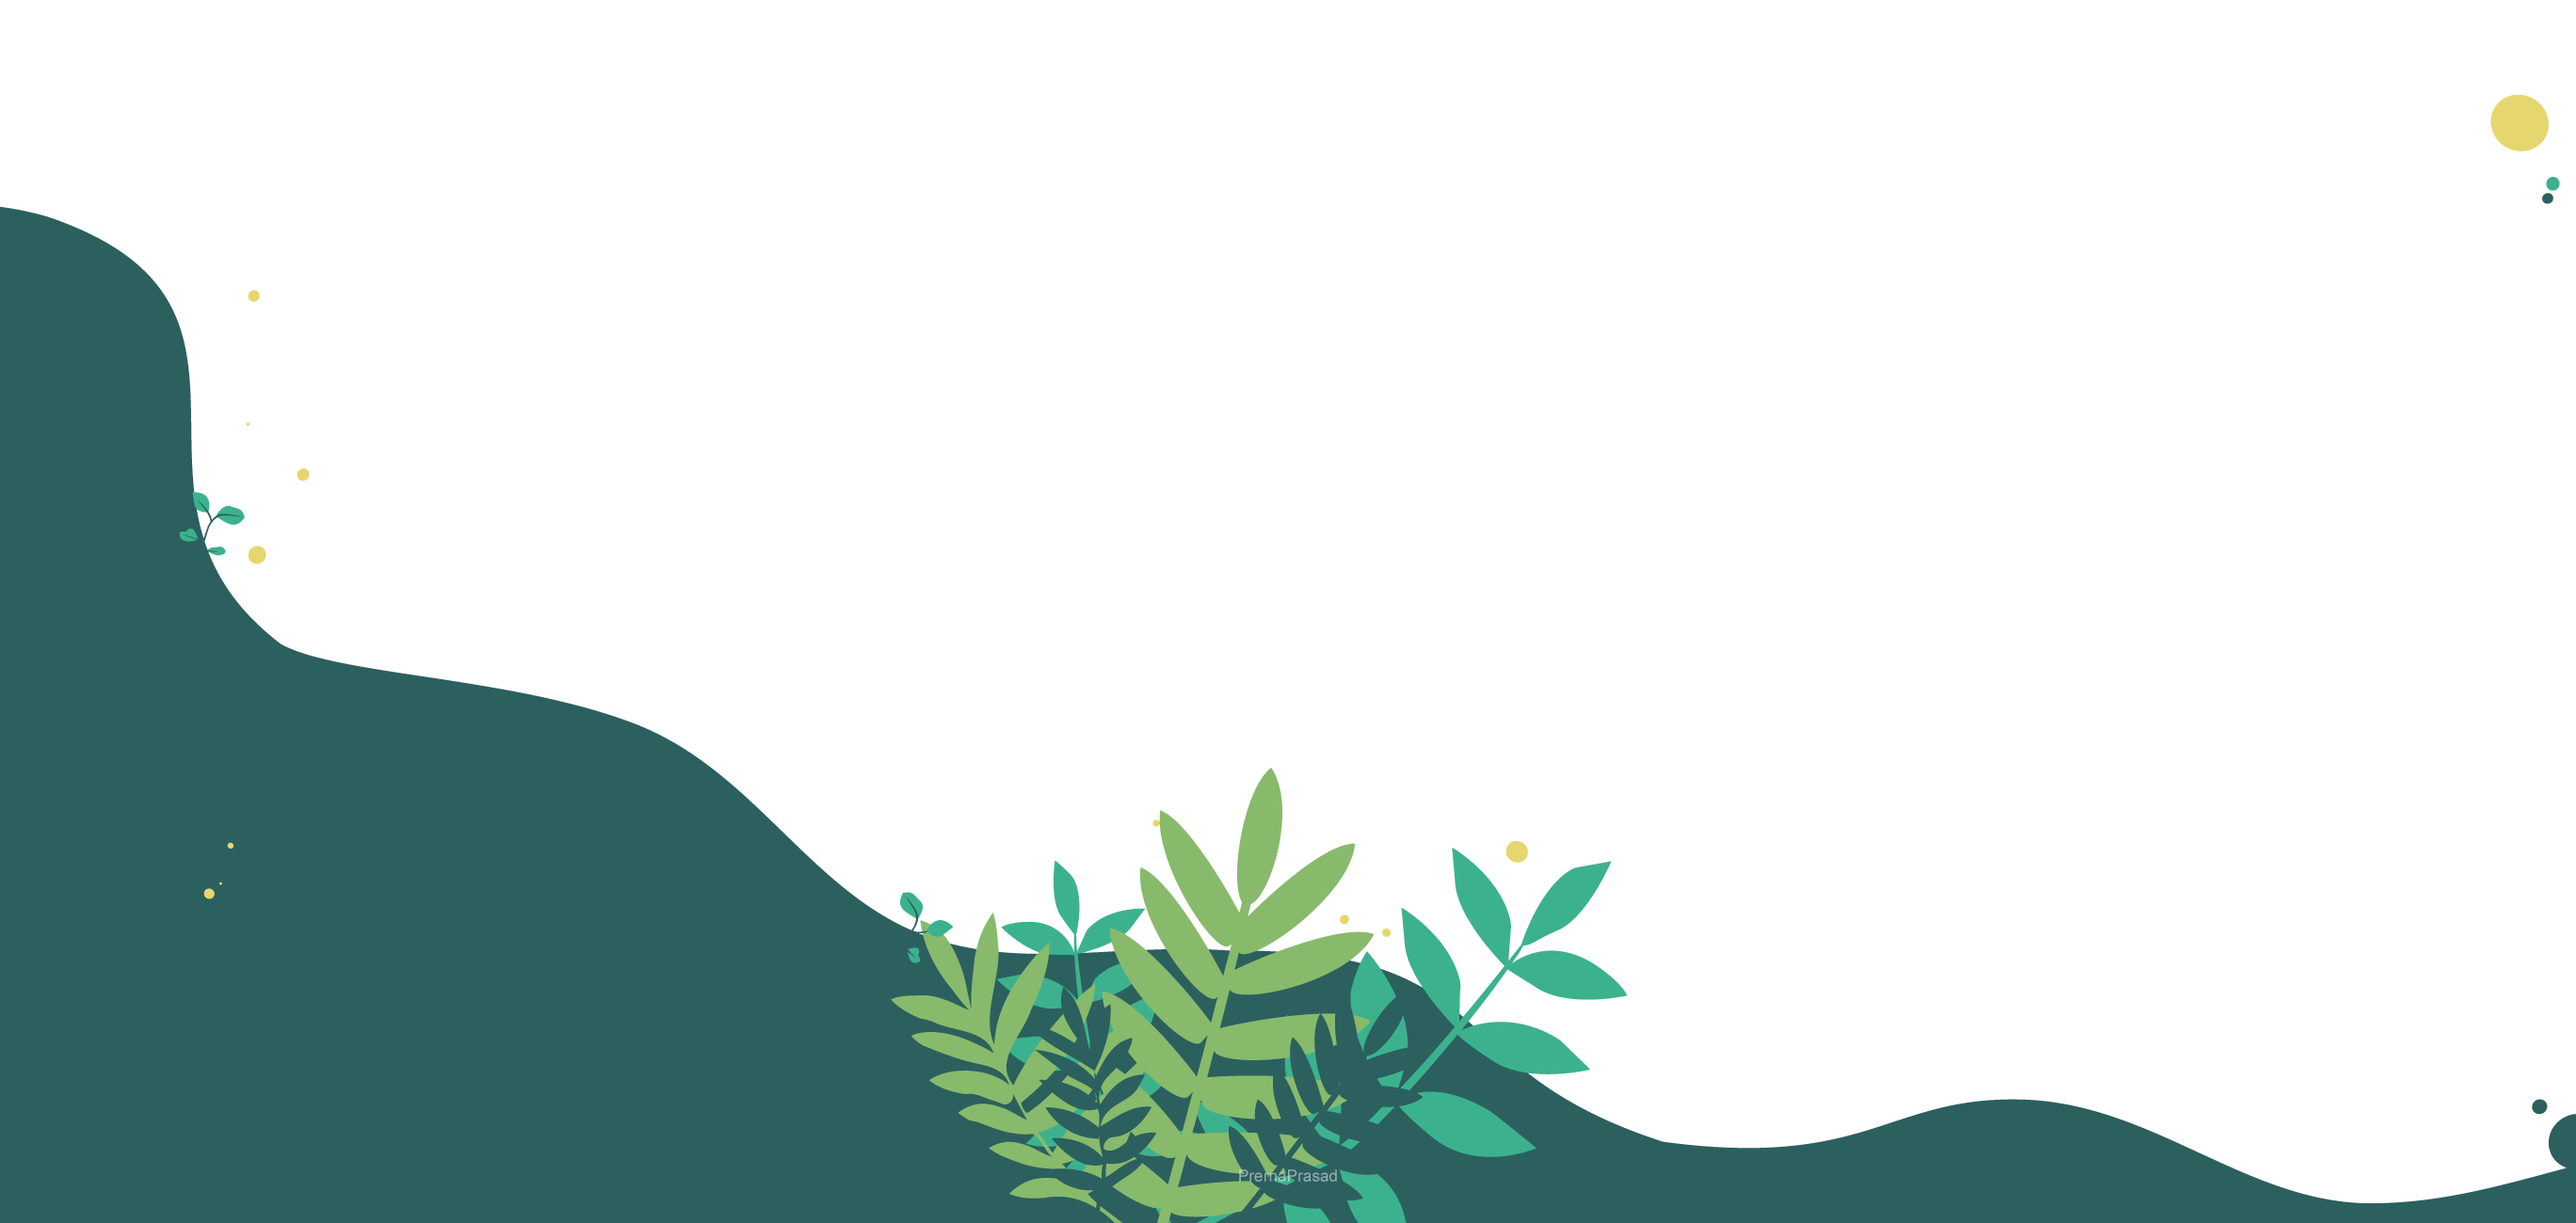
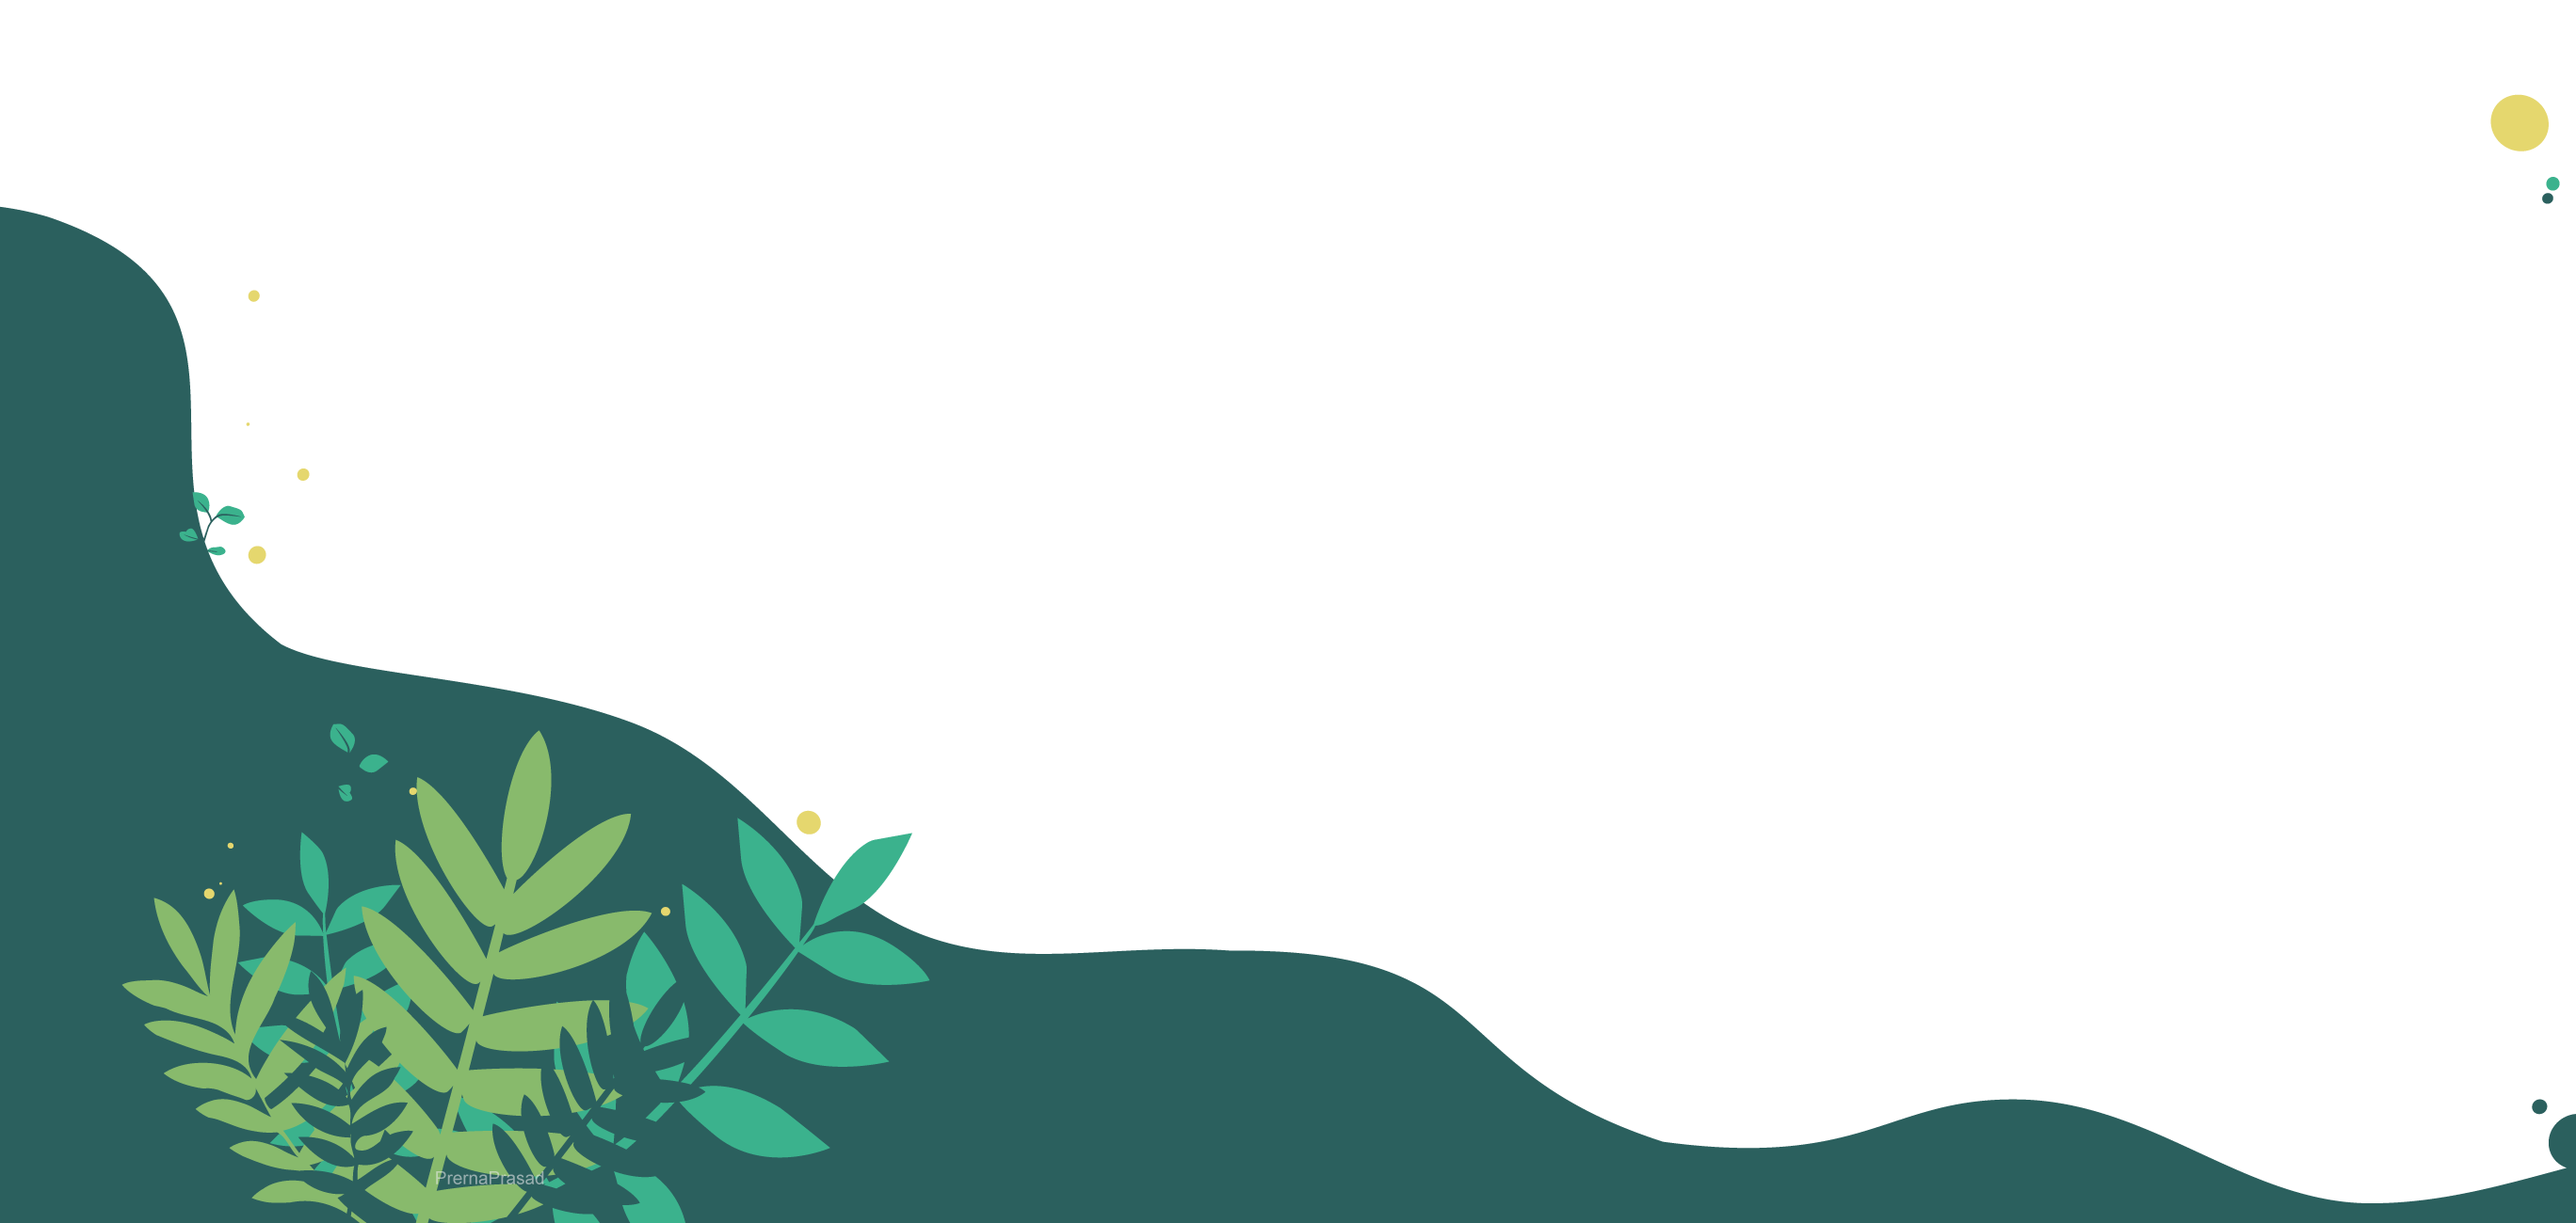
Added signup

Changed region(s): [[0.0311, 0.5846, 0.6524, 1.0], [0.1243, 0.5846, 0.1553, 0.6462]]

diff --git a/css/signup.css b/css/signup.css
@@ -1,0 +1,109 @@
+@import url('https://fonts.googleapis.com/css?family=Noto+Sans+JP&display=swap');
+body{
+	/* font-family: 'Noto Sans JP', sans-serif; */
+	font-family: 'Open Sans', sans-serif;
+	background-image: url('../img/leafbg.png');
+	background-repeat: no-repeat;	
+	height:100vh;
+	/* background-color: #1a4443; */
+	background-position: center;
+	background-size: cover;
+}
+.main{
+	color: #28292A;
+	max-width: 1200px;
+	margin: 0 auto;
+}
+.text-center{
+	margin-top: 10px;
+	margin-bottom: 20px;
+	text-align: center;
+}
+.logo img{
+	display: block;
+	margin: auto;
+    margin-top: 30px;  
+	padding:12px;
+	height: 80px;
+	width:80px;	
+}
+#signup{
+	background-color: #deeceab7;
+	box-shadow: 1px 1px 3px rgba(148, 231, 211, 0.2);
+	margin: auto;
+	padding: 10px;
+	width: 500px;
+	border-radius: 10px;
+}
+.form-inline{
+	width:380px;
+	margin:auto;
+}
+.form-inline input{
+	border-radius:5px; 
+	height: 50px;
+	width:160px !important;
+	padding: 12px;
+	border:1px solid #ffffff;
+	margin: auto;
+}
+input{	
+	margin: auto;
+	margin-top: 20px;
+	border:1px solid #ffffff;
+	height: 50px;
+	width:350px;
+	padding: 12px;
+	display: block;
+	border-radius:5px; 
+}
+#check{
+	margin: 6px 10px;
+	height:auto;
+	width: auto;
+}
+label{
+	margin:0 10px ;
+	padding: 0 10px;
+}
+.btn-primary{
+	font-size: 14px;
+	font-weight: bold;
+	padding: 12px;
+	color: #ffffff;
+	background-color: #8BCF7B !important;
+	border:2px solid #8BCF7B !important;
+	border-radius: 4px;
+	margin: 20px auto;
+}
+.btn-primary:hover,.btn-primary:active,.btn-primary:focus{
+	background-color: #2B605E !important;
+	border:2px solid  #2B605E !important;
+	box-shadow: 2px 3px 5px rgba(0,0,0,0.2);	
+	transition: 0.2s ease-in-out;
+}
+#olduser, #newuser {
+	font-size: 18px;
+}
+@media (max-width: 600px) {
+	body{
+		background-image:url('../img/media600leafbg.png');
+	}
+	#signup{
+		margin: auto;
+		padding: 10px;
+		width: auto;
+		border-radius: 10px;
+	}
+}
+@media (max-width: 600px) {
+	body{
+		background-image:url('../img/media600leafbg.png');
+	}
+	#signup{
+		margin:20px;
+		padding: 10px;
+		width: auto;
+		border-radius: 10px;
+	}
+}

diff --git a/signup.html b/signup.html
@@ -1,0 +1,39 @@
+<!DOCTYPE html>
+<html>
+<head>
+	<title></title>
+	<meta charset="utf-8">
+	<meta name="viewport" content="width=device-width, initial-scale=1">
+	<link rel="shortcut icon" href="img/logo-w.png">
+	<link rel="stylesheet" href="https://stackpath.bootstrapcdn.com/bootstrap/4.3.1/css/bootstrap.min.css">
+	<link rel="stylesheet" type="text/css" href="https://cdnjs.cloudflare.com/ajax/libs/font-awesome/4.7.0/css/font-awesome.min.css">
+	<link rel="stylesheet" type="text/css" href="css/signup.css">
+
+</head>
+<body>
+	<div class="logo"><a href="index.html"><img src="img/logo-w.png"></a></div>
+	
+	<form id="signup" class="text-center" action="index.html" method="POST" >
+		<h4 class="text-center">Sign&nbsp;up</h4>
+		<div class="form-inline ">
+			<input class="form-control" id="fname" type="text" max="30" name="username" placeholder="First name" required="true">		
+			<input class="form-control" id="lname" type="text" max="30" name="username" placeholder="Last name" required="true">
+		</div>
+		<input type="email" name="email" placeholder="Email" required="true">
+		<input type="password" min="8" max="10" name="pswd1" placeholder="Password" required="true" id="pswd1">
+		<input type="password" min="8" max="10" name="pswd2" placeholder="Confirm password" required="true" id="pswd2">
+		<p id="textmsg"></p>
+		<div clas="form-group form-check">
+			<input class="form-check-input" type="checkbox" name="checkbox" id="check" value="yes" required="true">
+			<label class="form-check-label" for="check">By continuing, you agree to NaturePetal's <a href="#">Conditions of Use</a> and <a href="#">Privacy Notice</a>.</label>
+		</div>
+		<button class="btn-primary" type="submit" value="" onclick="createAcc();" id="btn" name="">Create Account</button>
+		
+		<p id="olduser">Already have an account?&nbsp; <a href="signin.html" enabled="false">Sign in</a></p>
+		
+	</form>
+</body>
+<script>
+	
+</script>
+</html>
